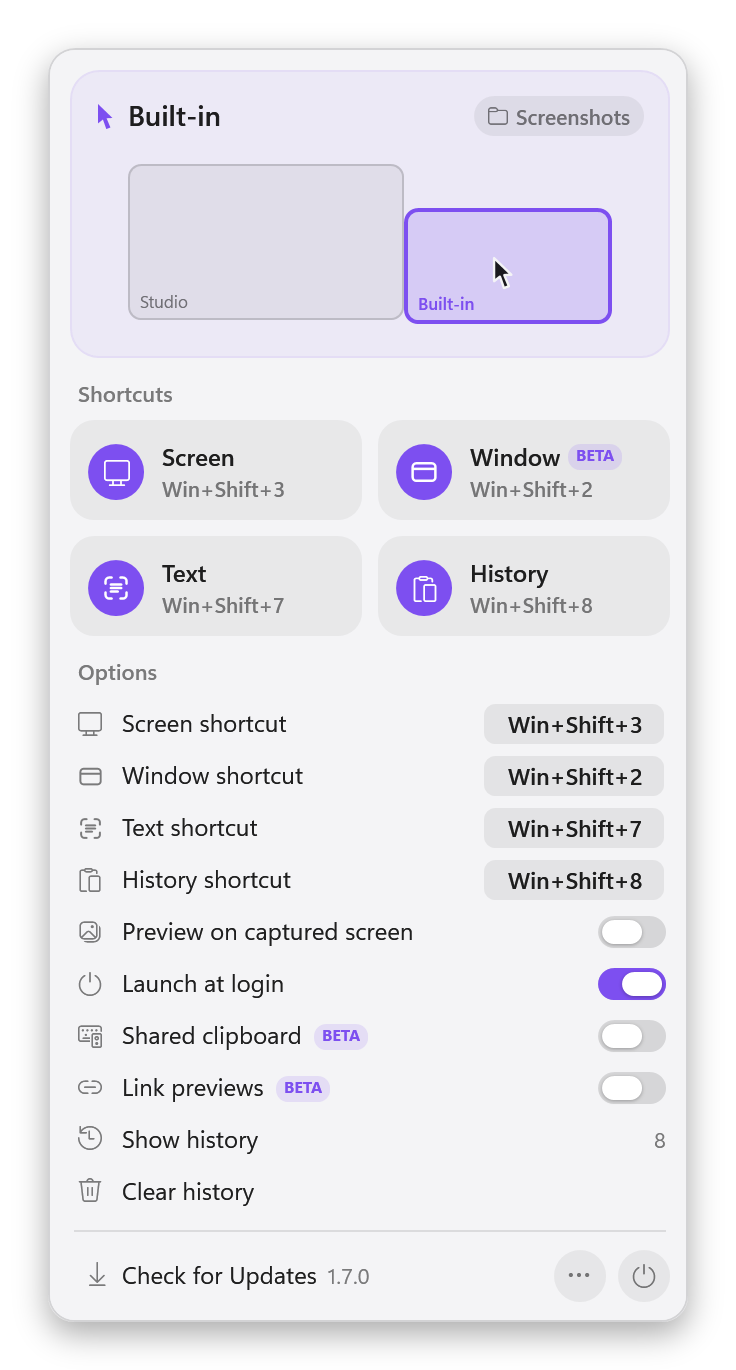
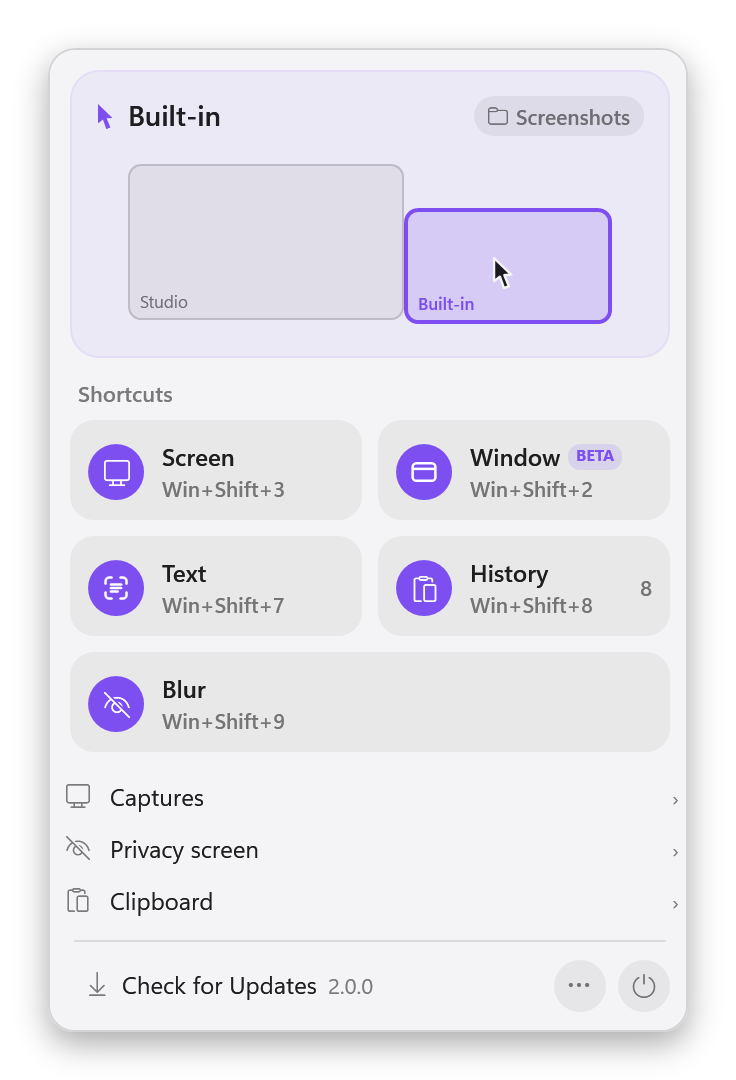
docs: the Windows pictures show 2.0, and the history is not shown twice
The clipboard history already has its picture higher up the page; the
Windows one stays on the Windows page, where it is the only one.

diff --git a/README.md b/README.md
@@ -34,7 +34,7 @@
 </picture>
 <picture>
   <source media="(prefers-color-scheme: dark)" srcset="docs/assets/windows-panel-dark.png">
-  <img src="docs/assets/windows-panel-light.png" width="350" align="top" alt="ScreenHere on Windows: the same panel, with the same map, tiles and options" />
+  <img src="docs/assets/windows-panel-light.png" width="350" align="top" alt="ScreenHere on Windows: the same panel, with the same map, the same tiles and the same rooms of settings" />
 </picture>
 
 <sub>The same panel on the Mac and on Windows.</sub>
@@ -106,11 +106,6 @@ The frost is a real blur of your screen: ScreenHere takes one small picture of e
 Everything you can change sits behind three doors — Captures, Privacy screen, Clipboard. The panel shows one room at a time, so it no longer grows taller with every feature you switch on, and a setting has the space for the line that says what it does instead of a tooltip you had to find.
 
 ## On Windows
-
-<picture>
-  <source media="(prefers-color-scheme: dark)" srcset="docs/assets/windows-history-dark.png">
-  <img src="docs/assets/windows-history-light.png" width="596" alt="The clipboard history on Windows: a searchable list of recently copied texts, files and images" />
-</picture>
 
 The same app, on Windows 10 and 11: <kbd>Win</kbd><kbd>Shift</kbd><kbd>3</kbd> for the screen under the pointer, <kbd>Win</kbd><kbd>Shift</kbd><kbd>2</kbd> for the window, <kbd>Win</kbd><kbd>Shift</kbd><kbd>7</kbd> for text and <kbd>Win</kbd><kbd>Shift</kbd><kbd>8</kbd> for the history, behind the same panel. Text is read by Windows' own recogniser, on your PC.
 
